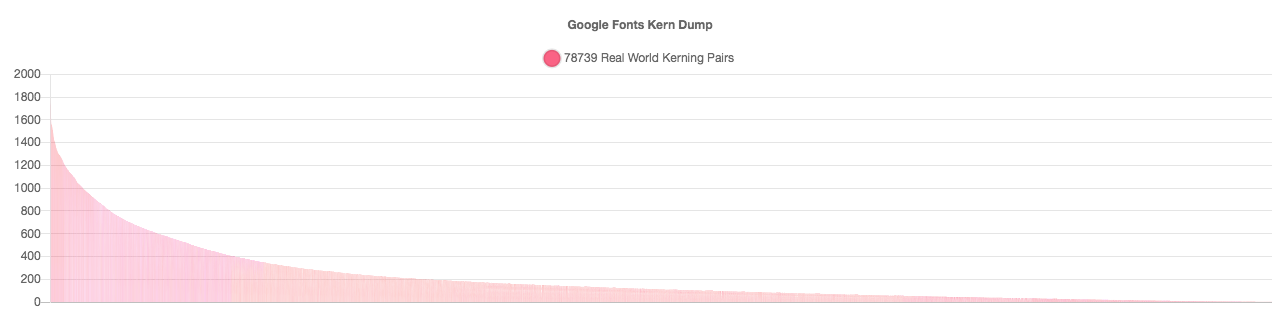
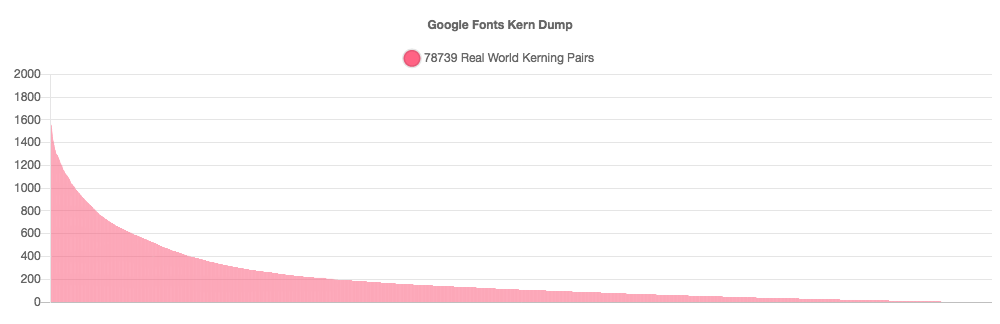
Documentation, Images improved

diff --git a/readme.md b/readme.md
@@ -93,7 +93,7 @@ Juxtaposition of kerning value (size of left bar), popularity (color intensity o
 
 
 ## (4) Relevant kerning pairs
-From the previous statistics and I conclude that the relevance of a potential kerning pair should be judged by occurrence, popularity and kerning value itself. 
+From the previous statistics I conclude that the relevance of a potential kerning pair should be judged by occurrence, popularity and kerning value itself. 
 
 All three variables get normalized before adding them to a relevance score, that I call ***Kern Score***. This means that the values of each variable is scaled to the corresponding total average value of 1. And a *Kern Score* of *3* could mean the sum of just average occurrence + average popularity + average kerning value (1 + 1 + 1). It could also mean an extremely rare pair, which requires a very strong kerning and is considered by many typographers for some reason (0.00001 + 1.499999 + 1.5). Both are equally ranked in the charts.
 
@@ -124,7 +124,7 @@ The Google Fonts kern dump collected 80 % of all possible letter pairs to be pot
 
 <!--Technically kerning pairs can be stored in the KERN table or the GPOS table (e.g. Glyphsapp) following the Opentype specifications. The KERN table can store up to about 11000 pairs without overflow, I've read. How many pairs could the GPOS table store? --> <!-- Frage -->
 
-This project's approach combines objective factors (occurrence, kerning value) and more subjective ones (popularity, personal whitelist). Popularity is measured statistically though and the whitelist bonus is rather small. 
+This project's approach combines more objective factors (occurrence, kerning value) and more subjective ones (popularity, personal whitelist). Popularity is measured statistically though and the whitelist bonus is rather small.
 
 
 #### Wishlist/Upcoming
